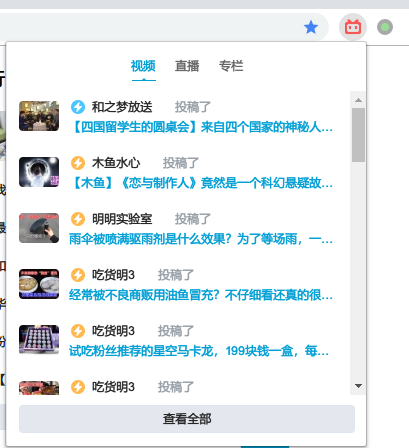
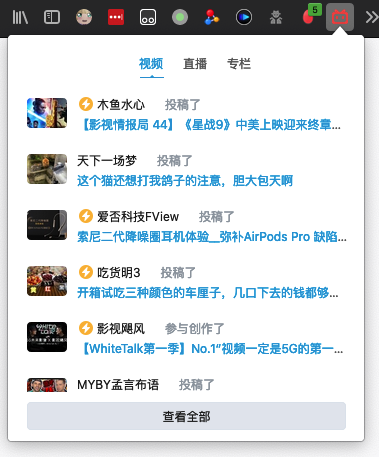
add css

diff --git a/html/popup.html b/html/popup.html
@@ -1,5 +1,5 @@
-<iframe width="380"
-    height="410" 
+<iframe width="340"
+    height="390" 
     frameborder="0"
     scrolling="no"
     marginheight="0"
@@ -10,14 +10,9 @@
 </script>
 <style>
     html {
-        /*隐藏滚动条，当IE下溢出，仍然可以滚动*/
         -ms-overflow-style:none;
-        /*火狐下隐藏滚动条*/
         overflow:-moz-scrollbars-none;
     }
-    /*Chrome下隐藏滚动条，溢出可以透明滚动*/
     html::-webkit-scrollbar{width:0px}
-    iframe{
-        margin:-18px;
-    }
+
 </style>

diff --git a/popup_modify.js b/popup_modify.js
@@ -1,0 +1,10 @@
+function addStyleString(str) {
+    var node = document.createElement('style');
+    node.innerHTML = str;
+    document.body.appendChild(node);
+}
+console.log('123');
+addStyleString('#app-container { margin-left: -12px; margin-top:-12px }');
+addStyleString('.dynamic-iframe { padding-bottom:0px!important}');
+addStyleString('.dyn_list_wrapper { height:304px!important }');
+addStyleString('.dynamic-m .wnd_bottom .r-l {padding-right:29px!important}') 

diff --git a/html/popup.js b/html/popup.js
@@ -2,3 +2,7 @@ window.onload = function () {
     chrome.runtime.sendMessage({popupOpen: true});
 };
 
+
+// contentWindow = document.querySelector('iframe').contentWindow
+
+// contentWindow.eval(`function addStyleString(str){var node=document.createElement("style");node.innerHTML=str;document.body.appendChild(node)}addStyleString(".dyn_list_wrapper { height:32vh!important }");addStyleString(".read-more { color:red!important }");`)

diff --git a/README.md b/README.md
@@ -4,7 +4,7 @@ Bilibili辅助扩展，用于提示并快速查看更新。
 ### 安装
 **Firefox**: https://addons.mozilla.org/zh-CN/firefox/addon/bilimini/
 
-**Chrome**: https://github.com/Taosky/BiliMini/releases/download/1.5/BiliMini.crx
+**Chrome**: https://github.com/Taosky/BiliMini//releases/latest
 
 
 ### 功能
@@ -14,4 +14,12 @@ Bilibili辅助扩展，用于提示并快速查看更新。
 ### 截图
 ![更新提醒](preview/0.png)
 ![动态展开](preview/1.png)
+
+
+
+### 更新
+
+**2019.12.21：版本1.6**
+
+- CSS优化样式，隐藏滚动条等
 
